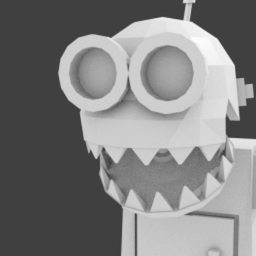
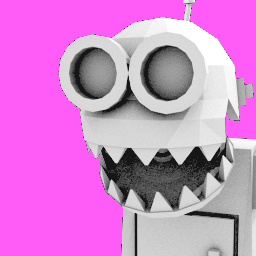
cleanup db

diff --git a/src/reports/ai-guild-scan.ts b/src/reports/ai-guild-scan.ts
@@ -36,10 +36,10 @@ export async function generateGuildScan(guild: Guild, force = false): Promise<Gu
   // Check for existing scan if not forced
   if (!force) {
     const existing = db.prepare(`
-      SELECT id, generated, message_count, total_members, ai_scan, guild_activity_score, guild_health_score, guild_toxicity_score, guild_spam_score, guild_engagement_score FROM reports
+      SELECT id, generated, message_count, ai_scan, guild_activity_score, guild_health_score, guild_toxicity_score, guild_spam_score, guild_engagement_score FROM reports
       WHERE type = 'guild-scan'
       ORDER BY generated DESC LIMIT 1
-    `).get() as { id: string; generated: string; message_count: number; total_members: number; ai_scan: string; guild_activity_score: number | null; guild_health_score: number | null; guild_toxicity_score: number | null; guild_spam_score: number | null; guild_engagement_score: number | null } | undefined;
+    `).get() as { id: string; generated: string; message_count: number; ai_scan: string; guild_activity_score: number | null; guild_health_score: number | null; guild_toxicity_score: number | null; guild_spam_score: number | null; guild_engagement_score: number | null } | undefined;
 
     if (existing) {
       const newestMsg = db.prepare(`SELECT MAX(created_at) as ts FROM messages`).get() as { ts: number | null } | undefined;
@@ -48,7 +48,7 @@ export async function generateGuildScan(guild: Guild, force = false): Promise<Gu
         if (newestMsg.ts < lastScanTime) {
           return {
             summary: existing.ai_scan,
-            messageCount: existing.total_members || existing.message_count,
+            messageCount: existing.message_count,
             generated: existing.generated,
             cached: true,
             reportId: existing.id,
@@ -148,8 +148,8 @@ export async function generateGuildScan(guild: Guild, force = false): Promise<Gu
     // Save to reports table
     const reportId = crypto.randomUUID();
     const totalMsgs = db.prepare(`SELECT COUNT(*) as count FROM messages`).get() as { count: number } | undefined;
-    db.prepare(`INSERT INTO reports (id, guild_name, type, generated, total_members, username, csv, ai_scan, message_count, guild_activity_score, guild_health_score, guild_toxicity_score, guild_spam_score, guild_engagement_score) VALUES (?, ?, ?, ?, ?, ?, ?, ?, ?, ?, ?, ?, ?, ?)`).run(
-      reportId, guild.name, "guild-scan", generated, totalMsgs?.count ?? 0, "", "", summary, messageLines.length,
+    db.prepare(`INSERT INTO reports (id, guild_name, type, generated, username, csv, ai_scan, message_count, guild_activity_score, guild_health_score, guild_toxicity_score, guild_spam_score, guild_engagement_score) VALUES (?, ?, ?, ?, ?, ?, ?, ?, ?, ?, ?, ?, ?)`).run(
+      reportId, guild.name, "guild-scan", generated, "", "", summary, totalMsgs?.count ?? 0,
       activityScore, healthScore, toxicityScore, spamScore, engagementScore
     );
 

diff --git a/src/reports/ai-channel-summary.ts b/src/reports/ai-channel-summary.ts
@@ -51,10 +51,10 @@ export async function getChannelSummary(
   // Check for existing summary (unless forced)
   if (!force) {
     const existing = db.prepare(`
-      SELECT id, generated, message_count, total_members, ai_scan FROM reports
+      SELECT id, generated, message_count, ai_scan FROM reports
       WHERE type = 'channel-summary' AND channel_id = ?
       ORDER BY generated DESC LIMIT 1
-    `).get(channelId) as { id: string; generated: string; message_count: number; total_members: number; ai_scan: string } | undefined;
+    `).get(channelId) as { id: string; generated: string; message_count: number; ai_scan: string } | undefined;
 
     if (existing) {
       const newestMsg = db.prepare(`
@@ -70,7 +70,7 @@ export async function getChannelSummary(
             channelId,
             channelName,
             summary: existing.ai_scan,
-            messageCount: existing.total_members || existing.message_count,
+            messageCount: existing.message_count,
             generated: existing.generated,
             cached: true,
             reportId: existing.id,
@@ -132,8 +132,8 @@ export async function getChannelSummary(
     const reportId = crypto.randomUUID();
     const generated = new Date().toISOString();
     const totalInChannel = db.prepare(`SELECT COUNT(*) as count FROM messages WHERE channel_id = ?`).get(channelId) as { count: number } | undefined;
-    db.prepare(`INSERT INTO reports (id, guild_name, type, generated, total_members, username, csv, ai_scan, message_count, channel_id, channel_name) VALUES (?, ?, ?, ?, ?, ?, ?, ?, ?, ?, ?)`).run(
-      reportId, guild.name, "channel-summary", generated, totalInChannel?.count ?? 0, "", "", summary, messageLines.length, channelId, channelName
+    db.prepare(`INSERT INTO reports (id, guild_name, type, generated, username, csv, ai_scan, message_count, channel_id, channel_name) VALUES (?, ?, ?, ?, ?, ?, ?, ?, ?, ?)`).run(
+      reportId, guild.name, "channel-summary", generated, "", "", summary, totalInChannel?.count ?? 0, channelId, channelName
     );
 
     return {

diff --git a/src/web/server.ts b/src/web/server.ts
@@ -550,7 +550,7 @@ export function createWebServer(client: Client) {
   app.get("/api/guild/:guildId/history", async (req, res) => {
     try {
       const db = getGuildDb(req.params.guildId);
-      const rows = db.prepare("SELECT id, guild_name, type, generated, total_members, username, message_count, channel_id FROM reports ORDER BY generated DESC").all();
+      const rows = db.prepare("SELECT id, guild_name, type, generated, username, message_count, channel_id FROM reports ORDER BY generated DESC").all();
       res.json(rows);
     } catch (err) {
       console.error("History fetch failed:", err);
@@ -591,8 +591,8 @@ export function createWebServer(client: Client) {
       const { generateUserAnalysis } = await import("../reports/user-analysis.js");
       const result = await generateUserAnalysis(guild, req.params.userId);
       const db = getGuildDb(req.params.guildId);
-      db.prepare("INSERT INTO reports (id, guild_name, type, generated, total_members, username, csv) VALUES (?, ?, ?, ?, ?, ?, ?)").run(
-        crypto.randomUUID(), guild.name, "analysis", result.generated, 1, result.username, result.csv
+      db.prepare("INSERT INTO reports (id, guild_name, type, generated, username, csv) VALUES (?, ?, ?, ?, ?, ?)").run(
+        crypto.randomUUID(), guild.name, "analysis", result.generated, result.username, result.csv
       );
       res.json(result);
     } catch (err) {

diff --git a/src/reports/ai-scan.ts b/src/reports/ai-scan.ts
@@ -185,8 +185,8 @@ export function saveAiScanResult(
   spammerScore: number | null, aiScore: number | null,
 ) {
   const db = getGuildDb(guildId);
-  db.prepare(`INSERT INTO reports (id, guild_name, type, generated, total_members, username, csv, ai_scan, risk_score, nice_score, weird_score, spammer_score, ai_score) VALUES (?, ?, ?, ?, ?, ?, ?, ?, ?, ?, ?, ?, ?)`).run(
-    crypto.randomUUID(), guildName, "ai-scan", new Date().toISOString(), 0, username, "", analysis,
+  db.prepare(`INSERT INTO reports (id, guild_name, type, generated, username, csv, ai_scan, risk_score, nice_score, weird_score, spammer_score, ai_score) VALUES (?, ?, ?, ?, ?, ?, ?, ?, ?, ?, ?, ?)`).run(
+    crypto.randomUUID(), guildName, "ai-scan", new Date().toISOString(), username, "", analysis,
     riskScore, niceScore, weirdScore, spammerScore, aiScore
   );
 }

diff --git a/src/db.ts b/src/db.ts
@@ -89,7 +89,6 @@ export function getGuildDb(guildId: string): DbType {
       guild_name TEXT NOT NULL,
       type TEXT NOT NULL,
       generated TEXT NOT NULL,
-      total_members INTEGER DEFAULT 0,
       username TEXT NOT NULL DEFAULT '',
       csv TEXT NOT NULL
     );

diff --git a/issues.md b/issues.md
@@ -1,0 +1,87 @@
+# rb-zero Issues Audit
+
+## Critical
+
+C1. **Session cookie missing `Secure` flag** (`src/web/auth.ts:56`) — Session cookie is sent over plain HTTP, allowing network-level session hijacking. Add `; Secure` to the cookie string.
+
+C2. **`sessionSecret` defined but never used** (`src/config.json:3`, `src/auth.ts`) — The config declares `sessionSecret: "change-me-to-a-random-string"` but no code references it. Session tokens are raw UUIDs stored in SQLite with no signing or HMAC. Dead config field that misleads about actual security posture.
+
+C3. **Path traversal via `guildId`** (`src/db.ts:57`) — `getGuildDb()` calls `mkdirSync(db/${guildId})` using raw URL parameter input. A crafted guildId like `../../tmp/evil` creates directories/files at arbitrary paths. Should validate guildId matches a numeric Discord snowflake pattern.
+
+C4. **XSS via `marked` + `{@html}`** (`frontend/src/lib/UserAnalysis.svelte:385`, `ChannelSummary.svelte:150`, `GuildScan.svelte:181`) — AI-generated markdown is rendered as raw HTML via `{@html marked(...)}` with no DOMPurify sanitization. Prompt injection or a compromised API response could execute arbitrary scripts in the panel.
+
+C5. **`checksums` table has no primary key or unique constraint** (`src/db.ts:124-127`) — Every query does a full table scan. Concurrent inserts can create duplicate checksums — the application-level duplicate check at `server.ts:773` is a TOCTOU race. Should be `checksum TEXT PRIMARY KEY`.
+
+C6. **`reports` is a polymorphic table** (`src/db.ts:87-95`) — Stores 5+ report types (user analysis, AI scans, channel summaries, guild scans) in one table with a `type` discriminator. Columns like `risk_score`, `guild_toxicity_score`, `channel_id` are NULL for unrelated types. Requires 19 `ALTER TABLE` migrations to add columns that only apply to specific types. Should be split into separate tables (`ai_scans`, `channel_summaries`, `guild_scans`, `legacy_reports`).
+
+## High
+
+H1. **No brute-force protection on login** (`src/web/auth.ts:48-57`) — No rate limiting, lockout, or exponential backoff. Combined with no password complexity requirements, brute-force is practical.
+
+H2. **Unbounded memory in AI reports** (`src/reports/ai-scan.ts:85`, `ai-channel-summary.ts:84`, `ai-guild-scan.ts:67`) — All three run `SELECT ... ORDER BY created_at DESC` with no `LIMIT`. On active users/channels or large guilds, this loads unbounded data into memory.
+
+H3. **No rate limiting on AI endpoints** (`src/web/server.ts:608,627,643`) — AI scan/summary/guild-scan trigger external API calls with no rate limiting or concurrency control. Spamming these racks up OpenRouter costs.
+
+H4. **SSRF via image describe** (`src/events/messageCreateImageDescribe.ts:38-49`) — URLs from message content are fetched directly. An internal-network URL (e.g., `http://169.254.169.254/`) could be used to probe cloud metadata services.
+
+H5. **No global error handlers** (`src/index.ts:46`) — No `process.on('uncaughtException')` or `unhandledRejection` handlers. The bot can crash silently.
+
+H6. **Uncaught promise rejections in event handlers** (`src/events/messageCreate.ts`, `messageUpdate.ts`, `messageDelete.ts`) — `async` execute functions registered via `client.on()` produce unhandled rejections if any `await` throws. These can crash the process.
+
+H7. **EditHistory interval leak** (`frontend/src/lib/EditHistory.svelte`) — Defines `startRefresh()`/`stopRefresh()` but never calls `onDestroy(stopRefresh)`. Intervals continue running after unmount.
+
+H8. **Duplicate `load()` call in Analytics** (`frontend/src/lib/Analytics.svelte:80,110`) — Two identical reactive statements cause `load()` to fire twice on every guild change.
+
+H9. **CSV injection in user-analysis export** (`src/reports/user-analysis.ts:59-75`) — User-controlled values interpolated without escaping CSV injection prefixes (`=`, `+`, `-`, `@`). `quick-report.ts` has a `csvEscape` helper but `user-analysis.ts` doesn't use it.
+
+H10. **Missing indexes on `reports` for AI cache lookups** (`src/db.ts:87-95`) — `SELECT ... WHERE type = 'ai-scan' AND username = ? ORDER BY generated DESC` and `WHERE type = 'channel-summary' AND channel_id = ? ORDER BY generated DESC` do full table scans. Every AI scan and channel summary checks cache with a full scan. Needs composite indexes on `(type, username, generated DESC)` and `(type, channel_id, generated DESC)`.
+
+H11. **Missing index on `sessions.user_id`** (`src/auth.ts:33-38`) — `DELETE FROM sessions WHERE user_id = ?` scans all sessions. Needs `CREATE INDEX idx_sessions_user ON sessions(user_id)`.
+
+H12. **Missing index on `ai_chat_log`** (`src/db.ts:184-194`) — `SELECT ... WHERE guild_id = ? ORDER BY created_at DESC` does a full table scan every time the AI Chat pane is opened. Needs `CREATE INDEX idx_aichatlog_guild_time ON ai_chat_log(guild_id, created_at DESC)`.
+
+H13. **Non-idempotent INSERT on `messages`** (`src/events/messageCreate.ts:66`) — Uses plain `INSERT` instead of `INSERT OR IGNORE`. Discord gateway retries on duplicate message IDs will throw. Backfill correctly uses `INSERT OR IGNORE`.
+
+## Medium
+
+M1. **No CSRF tokens** — No CSRF protection on any state-changing endpoint. `SameSite=Lax` provides partial mitigation but doesn't cover all vectors.
+
+M2. **No security headers** — No `Content-Security-Policy`, `X-Frame-Options`, `X-Content-Type-Options`, or `Strict-Transport-Security`.
+
+M3. **Silent schema migration errors** (`src/db.ts:160-180`) — 19 `try { ALTER TABLE } catch {}` blocks swallow all errors. Disk full, corruption, or permission issues are silently lost.
+
+M4. **Password change via CLI deletes and recreates user** (`src/cli-users.ts:125-131`) — Changes password by deleting the user row and recreating it, which invalidates the user's UUID and all foreign key references.
+
+M5. **19 `ALTER TABLE` migrations violate AGENTS.md "Never" rule** (`src/db.ts:160-180`) — The project explicitly forbids migration code paths, yet there are 19 of them. These should be in `CREATE TABLE`.
+
+M6. **AvatarPopup keyboard listener bug** (`frontend/src/lib/AvatarPopup.svelte:31-36`) — `on:keydown` registered once at mount based on initial `show=false`, so Escape never closes the popup.
+
+M7. **No error handling on most frontend `fetch()` calls** — Dozens of fetch calls across components have no try/catch or `r.ok` check. Expired sessions or network errors cause silent failures with no user feedback.
+
+M8. **Missing CHECK constraints on most tables** (`src/db.ts`) — Only `textfilters.action` has a CHECK constraint. Missing: `reports.type`, `modlogs.action`, `textfilter_logs.action`, `members.is_bot`, `members.watched`, `messages.deleted`, `users.is_superadmin` (all should be `IN (0, 1)` for booleans).
+
+M9. **Missing foreign keys on guild tables** (`src/db.ts:62-232`) — `foreign_keys = ON` is enabled but no FKs are declared. Missing: `messages.author_id` → `members(id)`, `message_edits.message_id` → `messages(id)`, `message_edits.author_id` → `members(id)`, `textfilter_logs.user_id` → `members(id)`, `ai_chat_log.user_id` → `members(id)`, `actionlogs.target_id` → `members(id)`, `modlogs.user_id` → `members(id)`.
+
+M10. **Missing indexes on log tables** (`src/db.ts:97-157`) — `modlogs`, `saylogs`, and `textfilter_logs` all have `ORDER BY timestamp DESC` queries but no index on `timestamp`. Full table scan + sort on every log pane open.
+
+M11. ~~**`reports.total_members` stores message count** (`src/db.ts:92`) — In guild-scan reports, `total_members` is set to `COUNT(*) FROM messages`, not member count. Column name is misleading.~~ **Fixed:** Column removed from schema, code now uses `message_count` consistently.
+
+## Low
+
+L1. **Dead `mainDb`** (`src/db.ts:47`) — LowDB is imported and `read()` called at startup but never used elsewhere.
+
+L2. **Hardcoded colors in Analytics** (`frontend/src/lib/Analytics.svelte:147+`) — Violates the project's own "never hardcode colors" rule.
+
+L3. **`@types/sharp` version mismatch** — `sharp@^0.35.3` but `@types/sharp@^0.31.1`.
+
+L4. **CLI passwords visible in process listing** (`src/cli-users.ts:39`) — Passwords passed as CLI args are visible via `ps aux`.
+
+L5. **No `aria-live` regions** — Screen readers aren't notified of dynamic status changes throughout the frontend.
+
+L6. **Card collapse not keyboard-accessible** (`frontend/src/lib/Card.svelte:36-37`) — Click handler on `<div>` with a11y warnings suppressed. No `role="button"` or keyboard support.
+
+L7. **Missing composite indexes for sort optimization** (`src/db.ts`) — `messages(author_id, created_at DESC)` and `messages(channel_id, created_at DESC)` would avoid sort steps for AI scan and channel message queries. `actionlogs(action, target_id, timestamp)` would optimize dedup queries in `messageDelete.ts` and `guildAuditLogEntryCreate.ts`.
+
+L8. **`ref_entries` UPDATE TOCTOU race** (`src/web/server.ts:842-846`) — Checks for tag conflict then updates the PK. Concurrent requests can race between the check and update. Use `INSERT OR REPLACE` or handle the error.
+
+L9. **No automated session cleanup** (`src/auth.ts:166`) — Expired sessions are only cleaned when a specific user creates a new session. Sessions for users who never log in again remain forever. Needs a periodic cleanup job.
